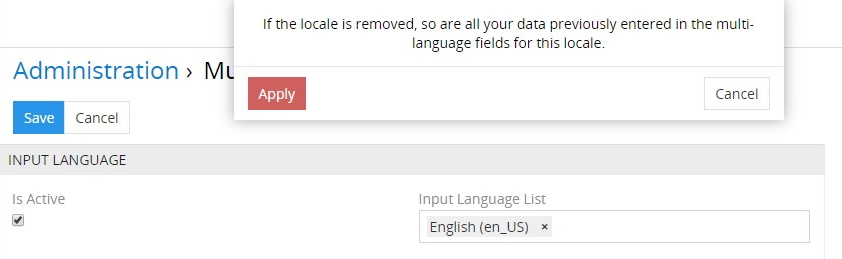
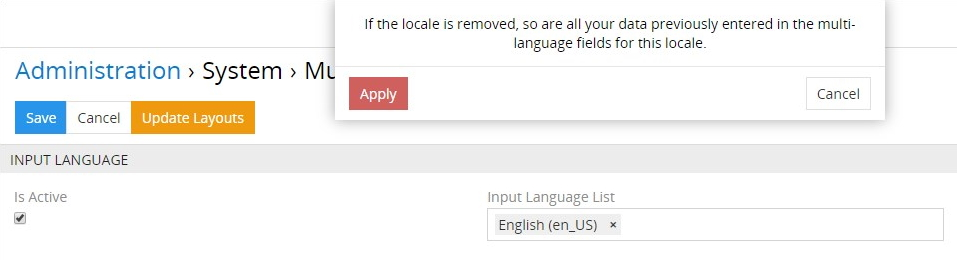
The `Update Layouts` button description is added

diff --git a/desc/multi-languages-desc-en.md b/desc/multi-languages-desc-en.md
@@ -36,6 +36,12 @@ When turning off a certain language or completely removing the "Multi-Languages"
 
 If this language is turned on again or the module is re-installed, the input fields will be restored to the system interface, but with no data in them. So please, be careful with these actions.
 
+On the same "Multi-Languages" module configuration page, you can automatically update the layouts for all entities to include locale fields on the ones where the main multilingual field is already displayed. To do this, click the `Update Layouts` button and confirm your decision in the pop-up that appears:
+
+![Update layouts](_assets/update-layouts.jpg)
+
+Once the action is applied, the missing locale fields are added at the bottom of the entity records overview. To customize the field order display, go to the [Layout Manager](#multilingual-field-display-on-the-layout) and make the desired changes for each entity separately. Moreover, you can configure each layout for each multilingual field separately as described [below](#multilingual-field-display-on-the-layout).
+
 ### Multilingual Field Creation 
 
 Currently the following field types can be made multilingual in the TreoPIM system:
